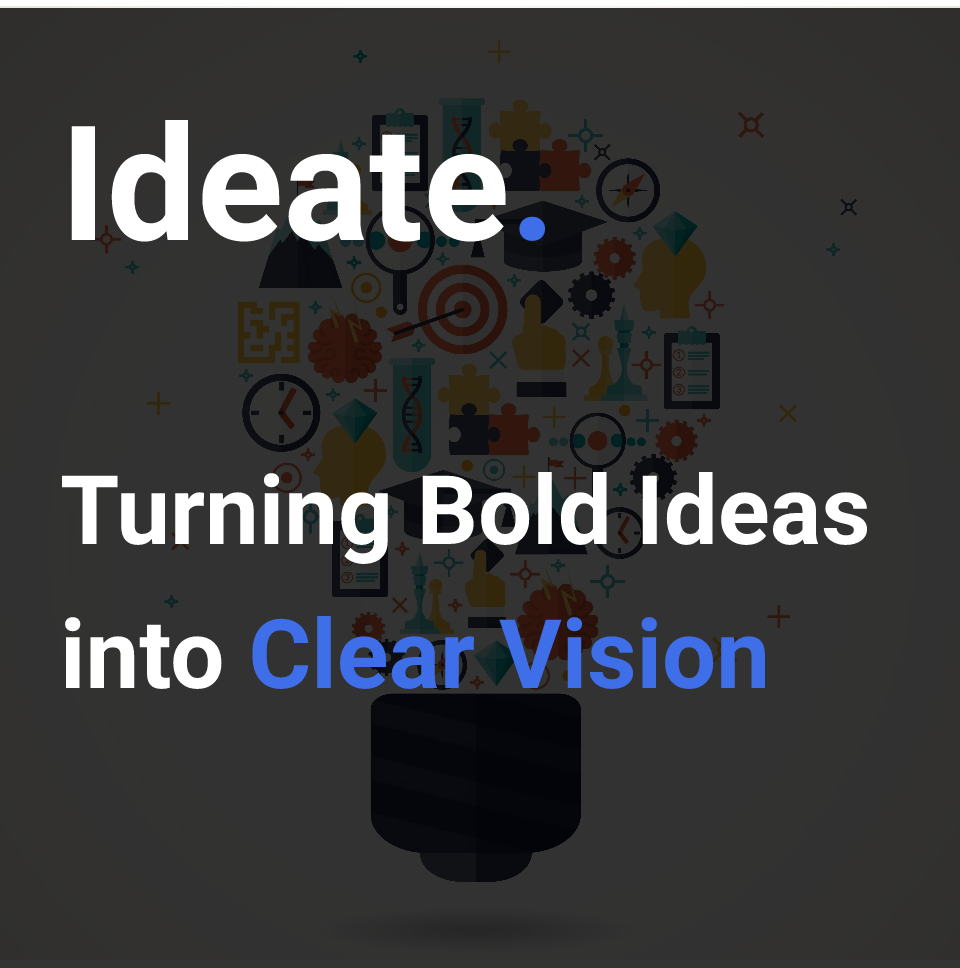
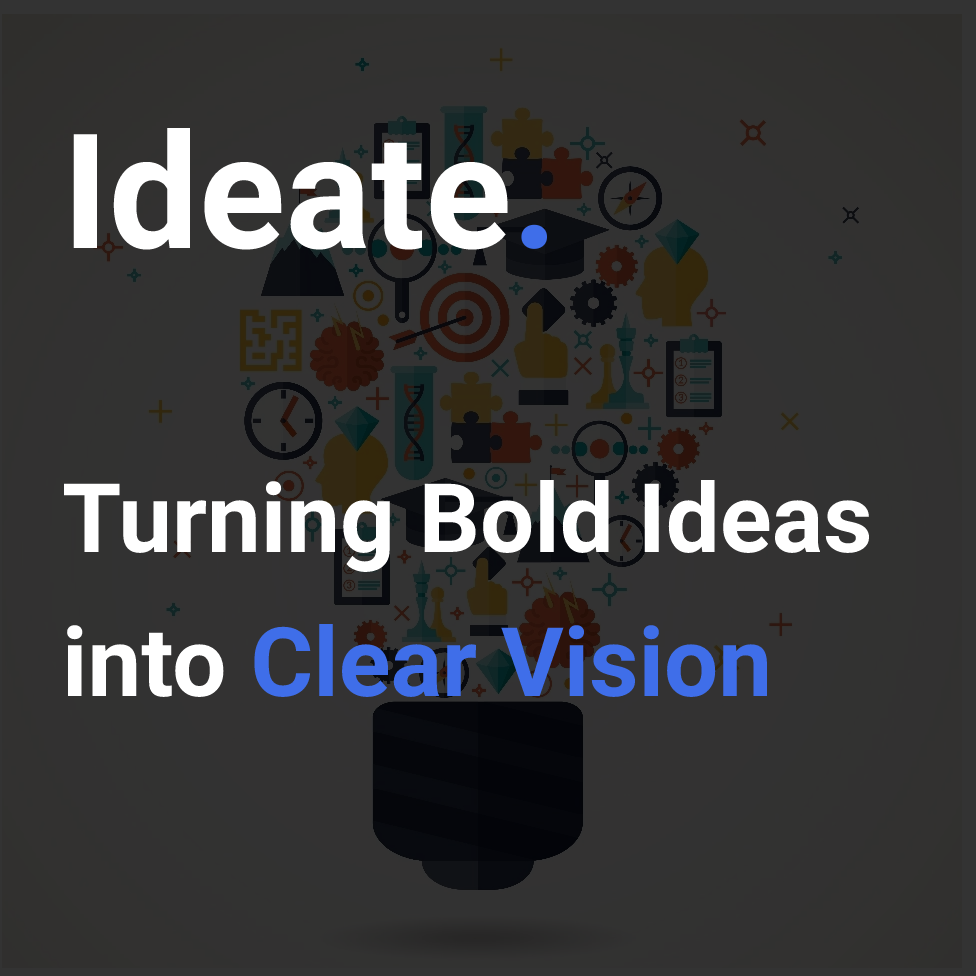
images changes

diff --git a/index.html b/index.html
@@ -250,7 +250,7 @@
   <div class="stg-row">
     <div class="stg-col-4" data-unload="fade-left">
       <div class="bringer-image-block">
-        <img src="./img/team/ideate.png" alt="Project 1" class="bringer-responsive-image">
+        <img src="./img/team/ideate-1.png" alt="Project 1" class="bringer-responsive-image">
       </div>
     </div>
     <div class="stg-col-4" data-unload="fade-up">
